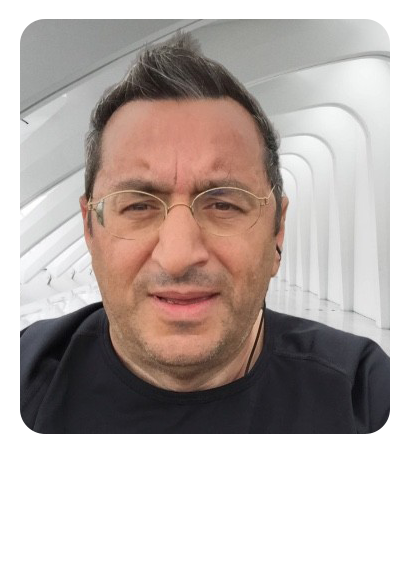
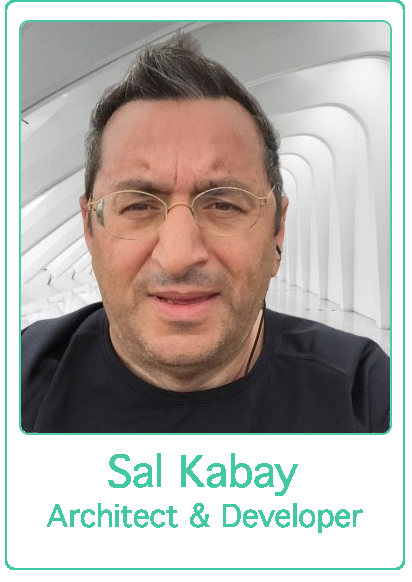
updated profile photo and improved wording

Changed region(s): [[0.0, 0.0, 0.9903, 0.9897], [0.1165, 0.866, 0.4369, 0.9278]]

diff --git a/src/js/data.js b/src/js/data.js
@@ -54,9 +54,9 @@ export const data = [
         <p>
           I focus on the intersection of user need, client demand, and technical limitation. I prioritise user experience, high performance and domain centric design. My skills are in strategy, architecture, development and systems integration.
         </p>
-        <h3>Technologies and approaches</h3>
+        <h3>Technology core</h3>
         <p>
-          I work with my teams on modern architectures to deliver beautiful and efficient business process automation solutions using Camunda, Java, React and Microservices. I implement component-driven solutions that are integrated and devops enabled - ensuring quality code, modularity, and maintainability.
+          I work with modern architectures to deliver beautiful and efficient business process automation solutions using Camunda, Java, React and Microservices. I implement component-based solutions that are integrated and devops enabled - ensuring quality code, modularity, and maintainability.
         </p>
       </Fragment>
     )
@@ -70,14 +70,14 @@ export const data = [
     ),
     content: (
       <Fragment>
+          <h3>Results driven</h3>
+          <p>
+              I thrive to unlock paralysis, provide clarity by simplifying complexity and enthuse others to overcome conflict. Every client is unique and every
+              assignment has a set of challenges that requires fresh, agile and informed thinking.
+          </p>
         <h3>Collaborative</h3>
         <p>
-          I am a reliable and trusted member of any team. I earn the respect of my coworkers through leadership and enabling and empowering others to do their best. I am collaborative and results driven.
-        </p>
-        <h3>Results driven</h3>
-        <p>
-          I thrive to unlock paralysis, provide clarity by simplifying complexity and enthuse others to overcome conflict. Every client is unique and every
-            assignment has a set of challenges that requires fresh, agile and informed thinking.
+          I am a reliable and trusted member of any team. I earn the respect of my coworkers through leadership and by empowering others to do their best. I am collaborative and results driven.
         </p>
       </Fragment>
     )
